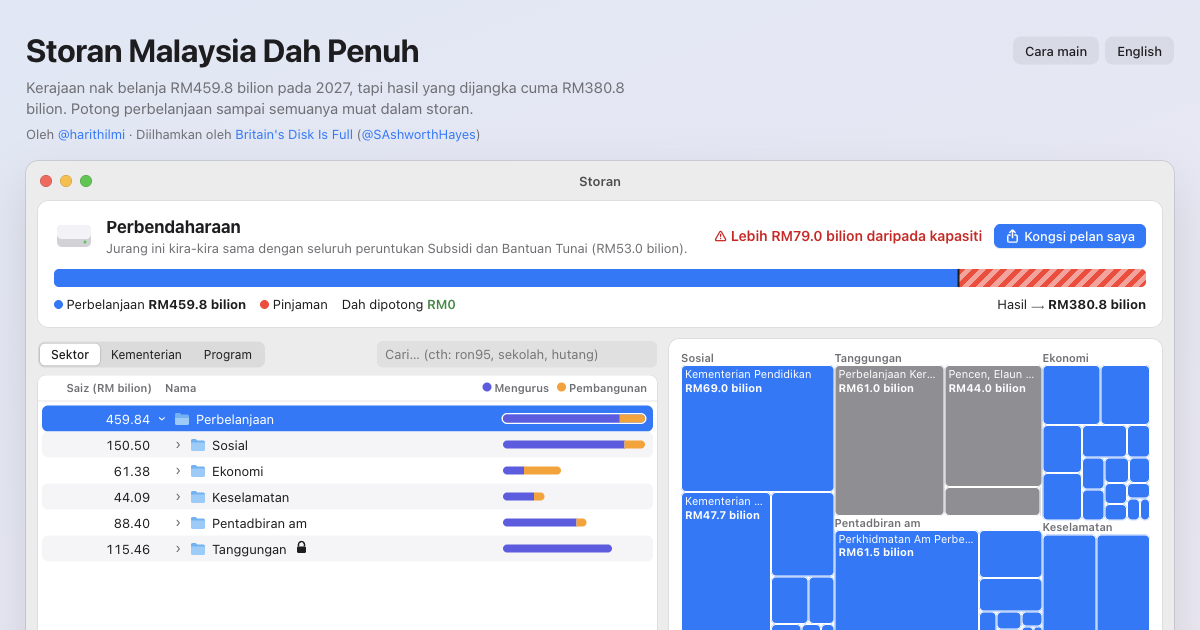
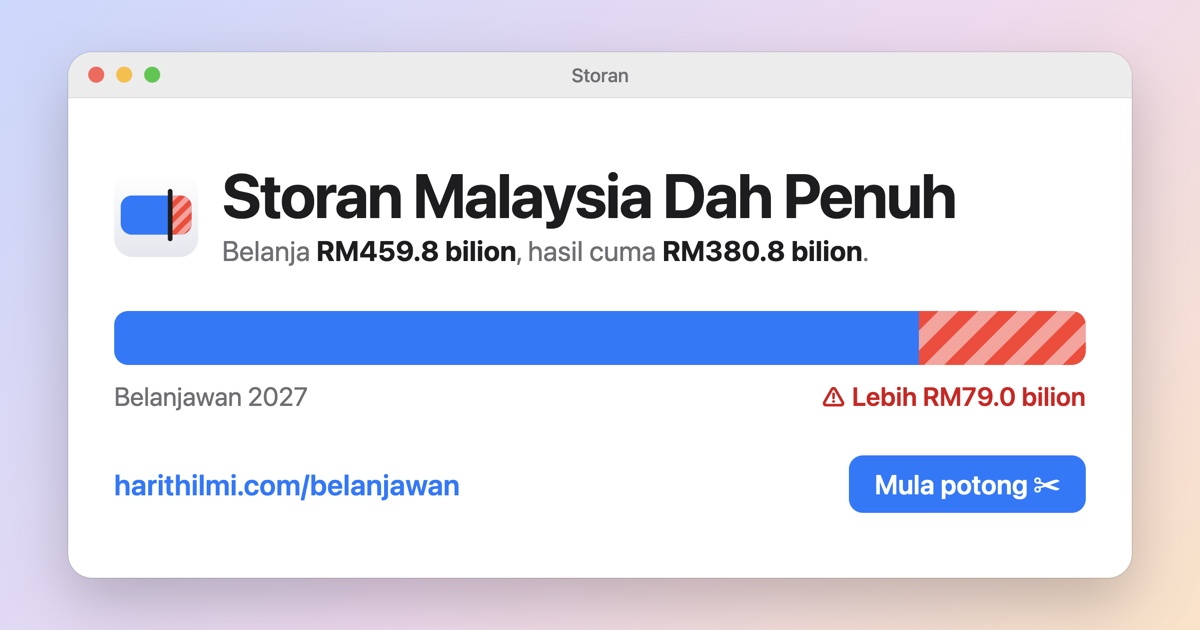
feat: redraw link preview as a readable mac window card

diff --git a/index.html b/index.html
@@ -15,7 +15,7 @@
     <meta property="og:title" content="Storan Malaysia Dah Penuh — Belanjawan 2027" />
     <meta property="og:description" content="Kerajaan nak belanja RM459.8 bilion, tapi hasil cuma RM380.8 bilion. Boleh potong sampai muat?" />
     <meta property="og:url" content="https://harithilmi.com/belanjawan/" />
-    <meta property="og:image" content="https://harithilmi.com/belanjawan/og.png" />
+    <meta property="og:image" content="https://harithilmi.com/belanjawan/og.png?v=2" />
     <meta property="og:image:type" content="image/png" />
     <meta property="og:image:width" content="1200" />
     <meta property="og:image:height" content="630" />
